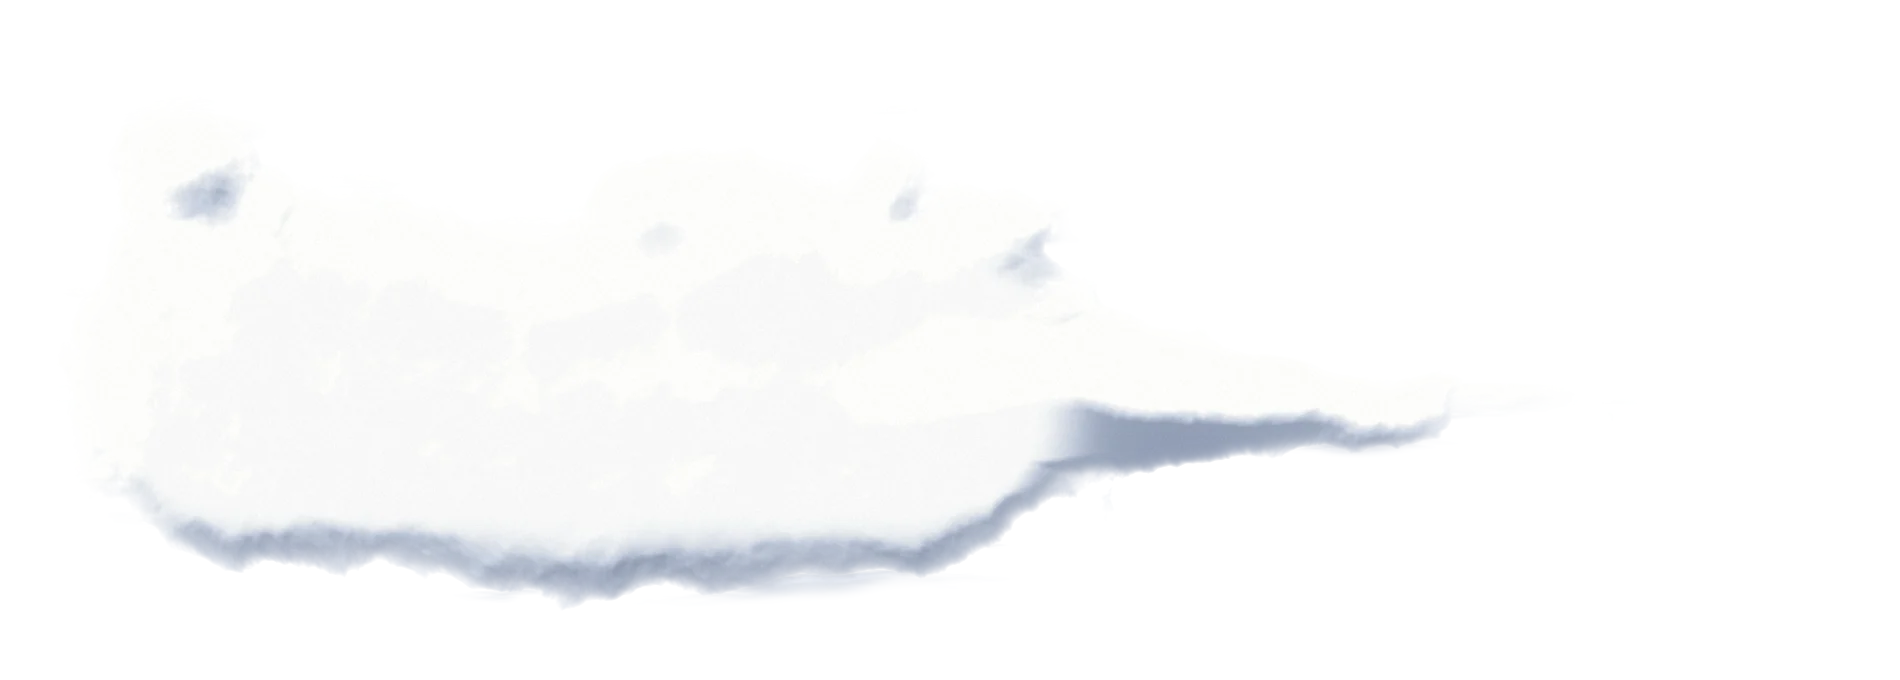
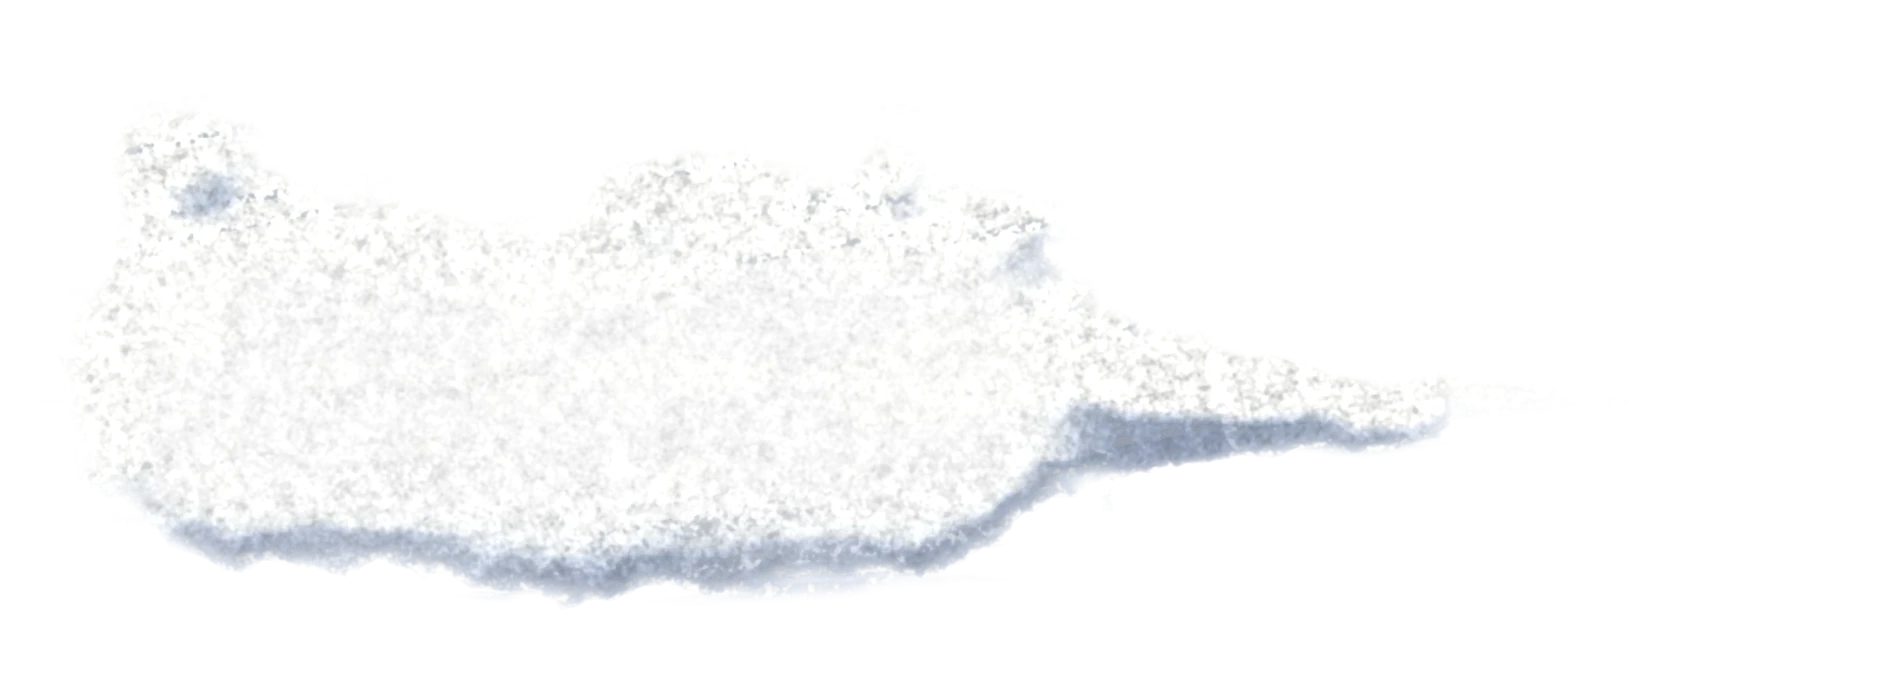
Add chalk grain finish to the realistic cloud templates
Same dry-brush finish as the illustrations (paper tooth, chalk streaks
and brush gaps, scaled to on-screen size), lighter under the text area.

Claude-Session: https://claude.ai/code/session_01GawEtbmCLEstnrQZwy5Tj7

diff --git a/manaslu/nubes-realistas/propuesta.html b/manaslu/nubes-realistas/propuesta.html
@@ -35,7 +35,7 @@ p{margin:0}
 /* ---------------------------------------------------------------- nubes (nuevo sistema)
    La plantilla es una imagen RGBA volumétrica. --op = densidad de la nube; detrás, un velo
    con desenfoque recortado con la misma silueta (mask) para las variantes translúcidas.  */
-.nb{position:relative;isolation:isolate;color:var(--pizarra);width:var(--cw,100%);max-width:100%;aspect-ratio:var(--ar);display:grid;align-content:center;
+.nb{position:relative;isolation:isolate;color:var(--pizarra);width:var(--cw,100%);max-width:100%;aspect-ratio:var(--ar);
   padding:calc(var(--cw,100%) * var(--pt)) calc(var(--cw,100%) * var(--pr)) calc(var(--cw,100%) * var(--pb)) calc(var(--cw,100%) * var(--pl))}
 .nb::before{content:'';position:absolute;inset:0;z-index:-1;background:var(--img) center/100% 100% no-repeat;opacity:var(--op,1);
   filter:var(--tinte,none);transition:opacity .5s var(--ease),filter .6s var(--ease)}
@@ -176,12 +176,13 @@ p{margin:0}
   <header class="cab">
     <span class="ceja">Identidad «Mani» · propuesta de nubes</span>
     <h1>Nubes de verdad</h1>
-    <p>Las plantillas pasan de dibujo con contorno a cúmulos volumétricos: cuerpo iluminado desde arriba a la izquierda, base en sombra, bordes deshilachados y jirones. El texto siempre cae en la cara iluminada, casi blanca, y sigue en pizarra.</p>
+    <p>Las plantillas pasan de dibujo con contorno a cúmulos volumétricos: cuerpo iluminado desde arriba a la izquierda, base en sombra, bordes deshilachados y jirones. El texto siempre cae en la cara iluminada, casi blanca, y sigue en pizarra. Encima llevan el acabado de las ilustraciones: diente de papel, trazos de tiza y algún hueco del pincel seco.</p>
     <ul class="cambios">
       <li>Sin contorno ni halo</li>
       <li>Tres densidades: densa, velo y translúcida</li>
       <li>La nube toma la luz de cada pintura</li>
       <li>Diez plantillas con tipos de nube reales</li>
+      <li>Grano de tiza, el mismo de las pinturas</li>
     </ul>
   </header>
 

diff --git a/manaslu/nubes-realistas/tiza.py b/manaslu/nubes-realistas/tiza.py
@@ -1,0 +1,56 @@
+"""tiza.py — aplica a las nubes el mismo acabado de las ilustraciones: diente de papel, estrías de tiza
+y algún hueco oscuro, más suave en la cara del texto para no restar legibilidad.
+    python3 tiza.py <dir_nubes> <dir_salida> <ruta_render>"""
+import sys, os, json, math
+import numpy as np
+from PIL import Image
+from scipy import ndimage as nd
+src, out, rdir = sys.argv[1], sys.argv[2], sys.argv[3]
+sys.path.insert(0, rdir)
+from paint import stripes, blur, smooth, mix
+os.makedirs(out, exist_ok=True)
+meta = json.load(open(os.path.join(src, 'plantillas.json')))
+for name, m in meta.items():
+    im = np.asarray(Image.open(os.path.join(src, f'nube_{name}.webp')).convert('RGBA'), np.float32)
+    H, W = im.shape[:2]
+    rgb, A = im[..., :3], im[..., 3] / 255
+    rng = np.random.default_rng(abs(hash(name)) % 2**31)
+    U = 2.3   # sprites se muestran a ~½: trazos del mismo tamaño en pantalla que los de las pinturas
+    # cara del texto: allí el acabado es más suave
+    x0, x1 = m['left'] * W, W - m['right'] * W; y0, y1 = m['top'] * W, H - m['bottom'] * W
+    cm = np.zeros((H, W), np.float32); cm[int(y0):int(y1), int(x0):int(x1)] = 1
+    cm = blur(cm, 0.03 * math.sqrt(W * H))
+    soft = 1 - 0.6 * cm
+    g1 = blur(rng.normal(0, 1, (H, W)).astype(np.float32), 0.75 * U)
+    g2 = blur(rng.normal(0, 1, (H, W)).astype(np.float32), 1.9 * U)
+    tooth = 0.7 * g1 / (g1.std() + 1e-6) + 0.6 * g2 / (g2.std() + 1e-6)
+    # estrías de tiza (mismos ángulos que las pinturas)
+    s3, b3 = stripes(H, W, U, 60, 1.3, 7, 170, rng)
+    sc = smooth(0.7, 1.9, s3 + 2.4 * (b3 - 0.5)) * smooth(0.1, 1.1, tooth)
+    s4, b4 = stripes(H, W, U, 22, 0.9, 19, 110, rng)
+    sc = np.maximum(sc, smooth(0.9, 2.0, s4 + 2.4 * (b4 - 0.5)) * smooth(0.2, 1.2, tooth))
+    s5, b5 = stripes(H, W, U, 9, 1.6, -30, 70, rng)
+    sc = np.maximum(sc, 0.8 * smooth(1.2, 2.2, s5 + 2.6 * (b5 - 0.5)) * smooth(0.3, 1.2, tooth))
+    chalk = np.array((244, 240, 230), np.float32)
+    lum0 = rgb.mean(-1)
+    shade0 = 1 - smooth(170, 248, lum0)
+    # tiza clara sobre las sombras (como en las pinturas) y trazo gris sobre las luces: así se ve también en lo blanco
+    rgb = mix(rgb, mix(rgb, chalk, 0.42), np.clip(sc * (0.10 + 0.70 * shade0) * soft, 0, 1)[..., None])
+    s6, b6 = stripes(H, W, U, 40, 1.1, 11, 140, rng)
+    dark = smooth(1.0, 2.1, s6 + 2.2 * (b6 - 0.5)) * smooth(0.0, -1.2, tooth) * (1 - shade0)
+    rgb = mix(rgb, np.array((176, 186, 204), np.float32), np.clip(dark * 0.50 * (1 - 0.88 * cm), 0, 1)[..., None])
+    # huecos: el pincel seco deja ver el fondo en la sombra de la nube
+    s1, b1 = stripes(H, W, U, 46, 1.5, 9, 150, rng)
+    gap = smooth(0.9, 2.1, s1 + 2.0 * (b1 - 0.5)) * smooth(0.5, -0.9, tooth)
+    shade = 1 - smooth(150, 245, rgb.mean(-1))          # más huecos en las zonas en sombra
+    gapk = np.clip(gap * (0.25 + 0.75 * shade) * soft * 0.55 + 0.12 * smooth(-1.35, -2.1, tooth) * soft, 0, 1)
+    rgb = mix(rgb, np.array((96, 104, 124), np.float32), (gapk * 0.6)[..., None])
+    A = A * (1 - 0.35 * gapk)
+    # diente del papel y borde quebrado (la tiza no deja bordes suaves perfectos)
+    rgb = rgb * (1 + 0.06 * np.clip(tooth, -2.5, 2.5) * soft)[..., None]
+    edge = smooth(0.0, 0.25, A) * smooth(0.9, 0.35, A)
+    A = np.clip(A * (1 + edge * 0.55 * np.clip(tooth, -2, 2) * 0.5) - edge * 0.12 * smooth(0.2, -1.2, tooth), 0, 1)
+    o = np.dstack([np.clip(rgb, 0, 255), np.clip(A * 255, 0, 255)]).astype(np.uint8)
+    Image.fromarray(o, 'RGBA').save(os.path.join(out, f'nube_{name}.webp'), 'WEBP', quality=88, method=6, exact=True)
+    print(name, flush=True)
+json.dump(meta, open(os.path.join(out, 'plantillas.json'), 'w'), indent=1)
